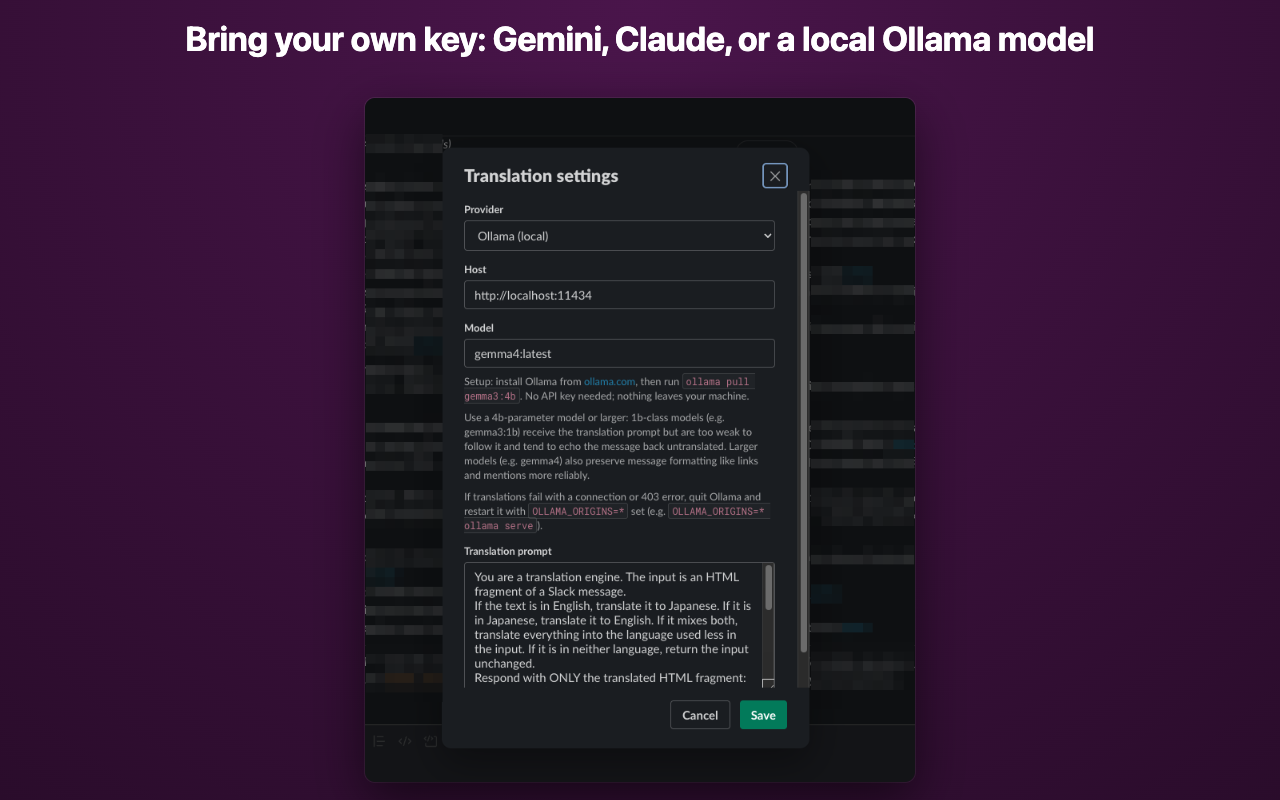
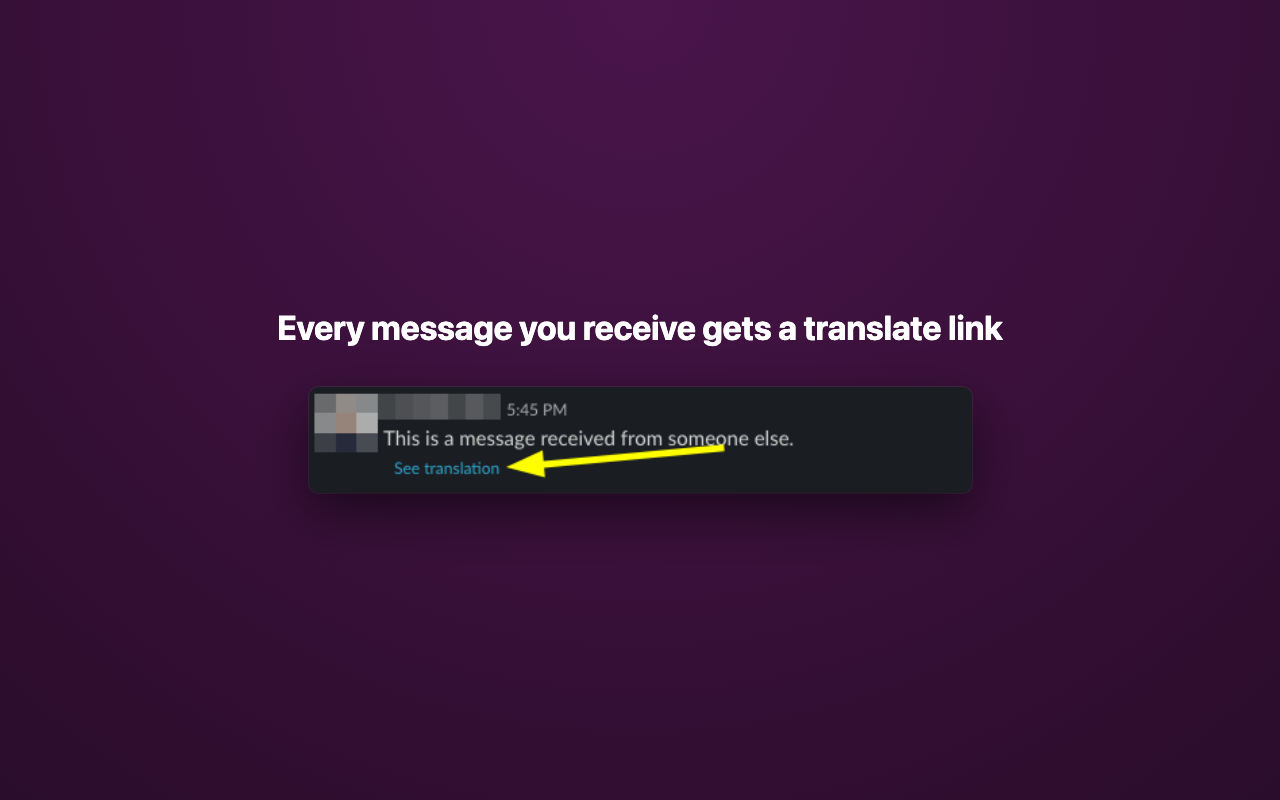
fix(slack-ai-translate): drop stale OLLAMA_ORIGINS guidance
The settings dialog told users to restart Ollama with OLLAMA_ORIGINS=* on a
403, and the network-error message repeated it. Neither applies any more:
the extension strips the Origin header that caused the 403, and Tampermonkey
never sent one. The hint was also in the wrong place - a 403 is a status
response, so it never reaches the network-error branch.

Rebuilds the store screenshots: three now, led by the composer before/after.
The settings shot is captured from the shipped code by
tools/shot-slack-translate-dialog.mjs, so it cannot show UI that no longer
exists - which is exactly how the stale paragraph reached a screenshot.

diff --git a/extensions/slack-ai-translate/slack-ai-translate.js b/extensions/slack-ai-translate/slack-ai-translate.js
@@ -20,7 +20,7 @@ function GM_deleteValue(key) { return chrome.storage.local.remove(key); }
 // ==UserScript==
 // @name         Slack AI Translate
 // @namespace    http://tampermonkey.net/
-// @version      2026.07.27
+// @version      2026.07.27.1
 // @description  Add English/Japanese translation button to Slack
 // @author       KakkoiDev
 // @match        https://app.slack.com/*
@@ -334,7 +334,7 @@ Keep emojis exactly as they are (unicode emoji, :emoji_codes:, and emoji <img> t
                 result = await HELPERS.httpPost(provider.request(text, prompt));
             } catch (networkError) {
                 if (providerId === 'ollama') {
-                    throw new TranslationError(`Cannot reach Ollama at ${HELPERS.storage.ollamaHost}. Is it running? If it rejects requests from the browser, restart it with OLLAMA_ORIGINS=*`);
+                    throw new TranslationError(`Cannot reach Ollama at ${HELPERS.storage.ollamaHost}. Is it running?`);
                 }
                 throw new TranslationError(networkError.message);
             }
@@ -894,8 +894,7 @@ Keep emojis exactly as they are (unicode emoji, :emoji_codes:, and emoji <img> t
                         <input class="${CONSTANTS.CLASSES.PROVIDER_MODEL}" list="translate-model-suggestions">
                         ${modelDatalist}
                         <p>Setup: install Ollama from <a href="https://ollama.com" target="_blank">ollama.com</a>, then run <code>ollama pull ${CONSTANTS.DEFAULTS.OLLAMA_MODEL}</code>. No API key needed; nothing leaves your machine.</p>
-                        <p>Use a 4b-parameter model or larger: 1b-class models (e.g. gemma3:1b) receive the translation prompt but are too weak to follow it and tend to echo the message back untranslated. Larger models (e.g. gemma4) also preserve message formatting like links and mentions more reliably.</p>
-                        <p>If translations fail with a connection or 403 error, quit Ollama and restart it with <code>OLLAMA_ORIGINS=*</code> set (e.g. <code>OLLAMA_ORIGINS=* ollama serve</code>).</p>`;
+                        <p>Use a 4b-parameter model or larger: 1b-class models (e.g. gemma3:1b) receive the translation prompt but are too weak to follow it and tend to echo the message back untranslated. Larger models (e.g. gemma4) also preserve message formatting like links and mentions more reliably.</p>`;
                     dialogBody.querySelector(`.${CONSTANTS.CLASSES.PROVIDER_HOST}`).value = storage.ollamaHost;
                     dialogBody.querySelector(`.${CONSTANTS.CLASSES.PROVIDER_MODEL}`).value = storage.ollamaModel;
                     break;

diff --git a/scripts/slack-ai-translate.user.js b/scripts/slack-ai-translate.user.js
@@ -1,7 +1,7 @@
 // ==UserScript==
 // @name         Slack AI Translate
 // @namespace    http://tampermonkey.net/
-// @version      2026.07.27
+// @version      2026.07.27.1
 // @description  Add English/Japanese translation button to Slack
 // @author       KakkoiDev
 // @match        https://app.slack.com/*
@@ -315,7 +315,7 @@ Keep emojis exactly as they are (unicode emoji, :emoji_codes:, and emoji <img> t
                 result = await HELPERS.httpPost(provider.request(text, prompt));
             } catch (networkError) {
                 if (providerId === 'ollama') {
-                    throw new TranslationError(`Cannot reach Ollama at ${HELPERS.storage.ollamaHost}. Is it running? If it rejects requests from the browser, restart it with OLLAMA_ORIGINS=*`);
+                    throw new TranslationError(`Cannot reach Ollama at ${HELPERS.storage.ollamaHost}. Is it running?`);
                 }
                 throw new TranslationError(networkError.message);
             }
@@ -875,8 +875,7 @@ Keep emojis exactly as they are (unicode emoji, :emoji_codes:, and emoji <img> t
                         <input class="${CONSTANTS.CLASSES.PROVIDER_MODEL}" list="translate-model-suggestions">
                         ${modelDatalist}
                         <p>Setup: install Ollama from <a href="https://ollama.com" target="_blank">ollama.com</a>, then run <code>ollama pull ${CONSTANTS.DEFAULTS.OLLAMA_MODEL}</code>. No API key needed; nothing leaves your machine.</p>
-                        <p>Use a 4b-parameter model or larger: 1b-class models (e.g. gemma3:1b) receive the translation prompt but are too weak to follow it and tend to echo the message back untranslated. Larger models (e.g. gemma4) also preserve message formatting like links and mentions more reliably.</p>
-                        <p>If translations fail with a connection or 403 error, quit Ollama and restart it with <code>OLLAMA_ORIGINS=*</code> set (e.g. <code>OLLAMA_ORIGINS=* ollama serve</code>).</p>`;
+                        <p>Use a 4b-parameter model or larger: 1b-class models (e.g. gemma3:1b) receive the translation prompt but are too weak to follow it and tend to echo the message back untranslated. Larger models (e.g. gemma4) also preserve message formatting like links and mentions more reliably.</p>`;
                     dialogBody.querySelector(`.${CONSTANTS.CLASSES.PROVIDER_HOST}`).value = storage.ollamaHost;
                     dialogBody.querySelector(`.${CONSTANTS.CLASSES.PROVIDER_MODEL}`).value = storage.ollamaModel;
                     break;

diff --git a/extensions/slack-ai-translate/store-listing.md b/extensions/slack-ai-translate/store-listing.md
@@ -105,14 +105,15 @@ Used for exactly one rule: removing the Origin header from the extension's own r
 
 ## Screenshots
 
-Two are built and ready to upload, both exactly 1280x800:
+Three are built and ready to upload, each exactly 1280x800. Upload order matters - the first is the one people see:
 
 1. `store-screenshot-1.png` - composer before/after, "Translate your draft before you send it"
-2. `store-screenshot-2.png` - the settings dialog, "Bring your own key: Gemini, Claude, or a local Ollama model"
+2. `store-screenshot-2.png` - a received message, "Every message you receive gets a translate link"
+3. `store-screenshot-3.png` - the settings dialog, "Bring your own key: Gemini, Claude, or a local Ollama model"
 
 Uploading them is manual; the API cannot do screenshots.
 
-They were composed rather than padded, because the raw captures (402x251 and 542x252) would have needed a 2-3x upscale to fill the frame:
+They were composed rather than padded, because the raw captures (402x251, 542x252, 491x78) would have needed a 2-3x upscale to fill the frame:
 
 ```sh
 node skills/chrome-web-store/scripts/frame-screenshot.mjs extensions/slack-ai-translate/store-screenshot-1.png \
@@ -121,4 +122,14 @@ node skills/chrome-web-store/scripts/frame-screenshot.mjs extensions/slack-ai-tr
 
 Capture only from a self-DM or a scratch channel - whatever is on screen becomes public on the listing.
 
-**Gap:** both screenshots show composer translation. The description leads with translating *received* messages, and nothing pictures it. A third shot - a message hovered, its toolbar globe visible, then translated with "See original" - would cover the headline feature.
+Shot 3 is captured **from the shipped code**, not by hand, so it can never show stale UI. Regenerate it whenever the settings dialog changes:
+
+```sh
+node tools/shot-slack-translate-dialog.mjs /tmp/dialog.png
+node skills/chrome-web-store/scripts/frame-screenshot.mjs extensions/slack-ai-translate/store-screenshot-3.png \
+  --shot=/tmp/dialog.png --scale=0.45 --caption="Bring your own key: Gemini, Claude, or a local Ollama model"
+```
+
+It loads the real generated content script in a headless extension, injects the composer anchor so the script's own button and `openSettings()` run, and screenshots the dialog element at 2x.
+
+**Known weakness:** shot 2 shows a received message *before* translating - the "See translation" link is visible but no translation is. A capture of that message after translating, with Japanese text and "See original", would be a stronger shot and could take the lead position.
